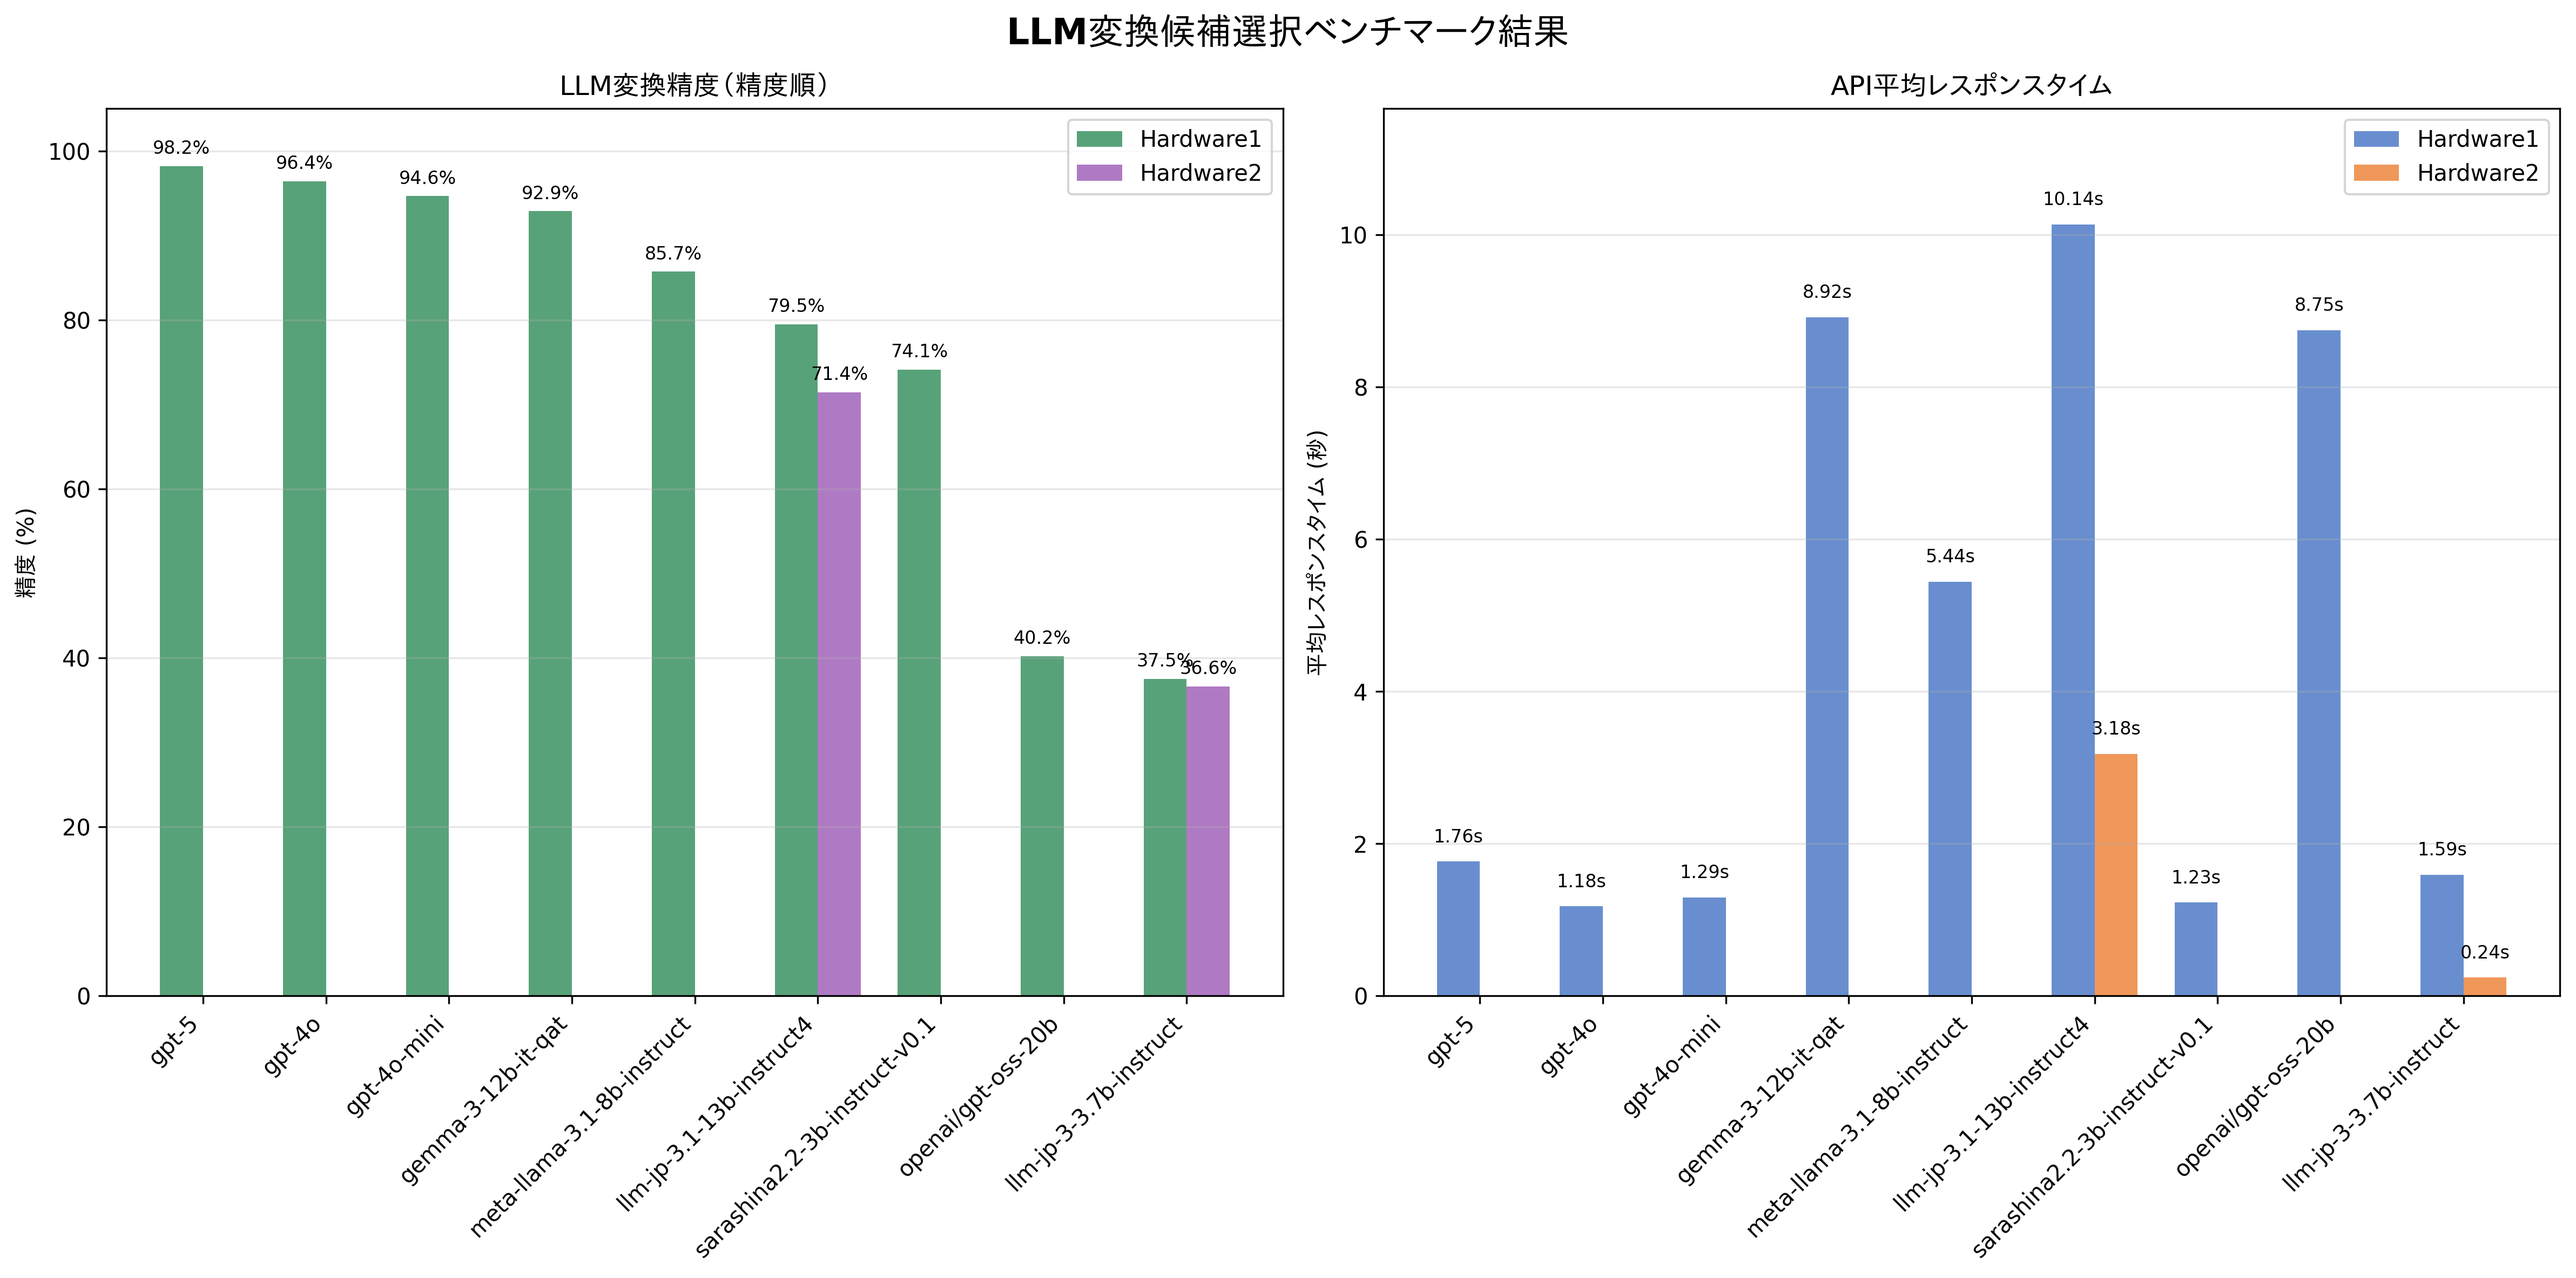
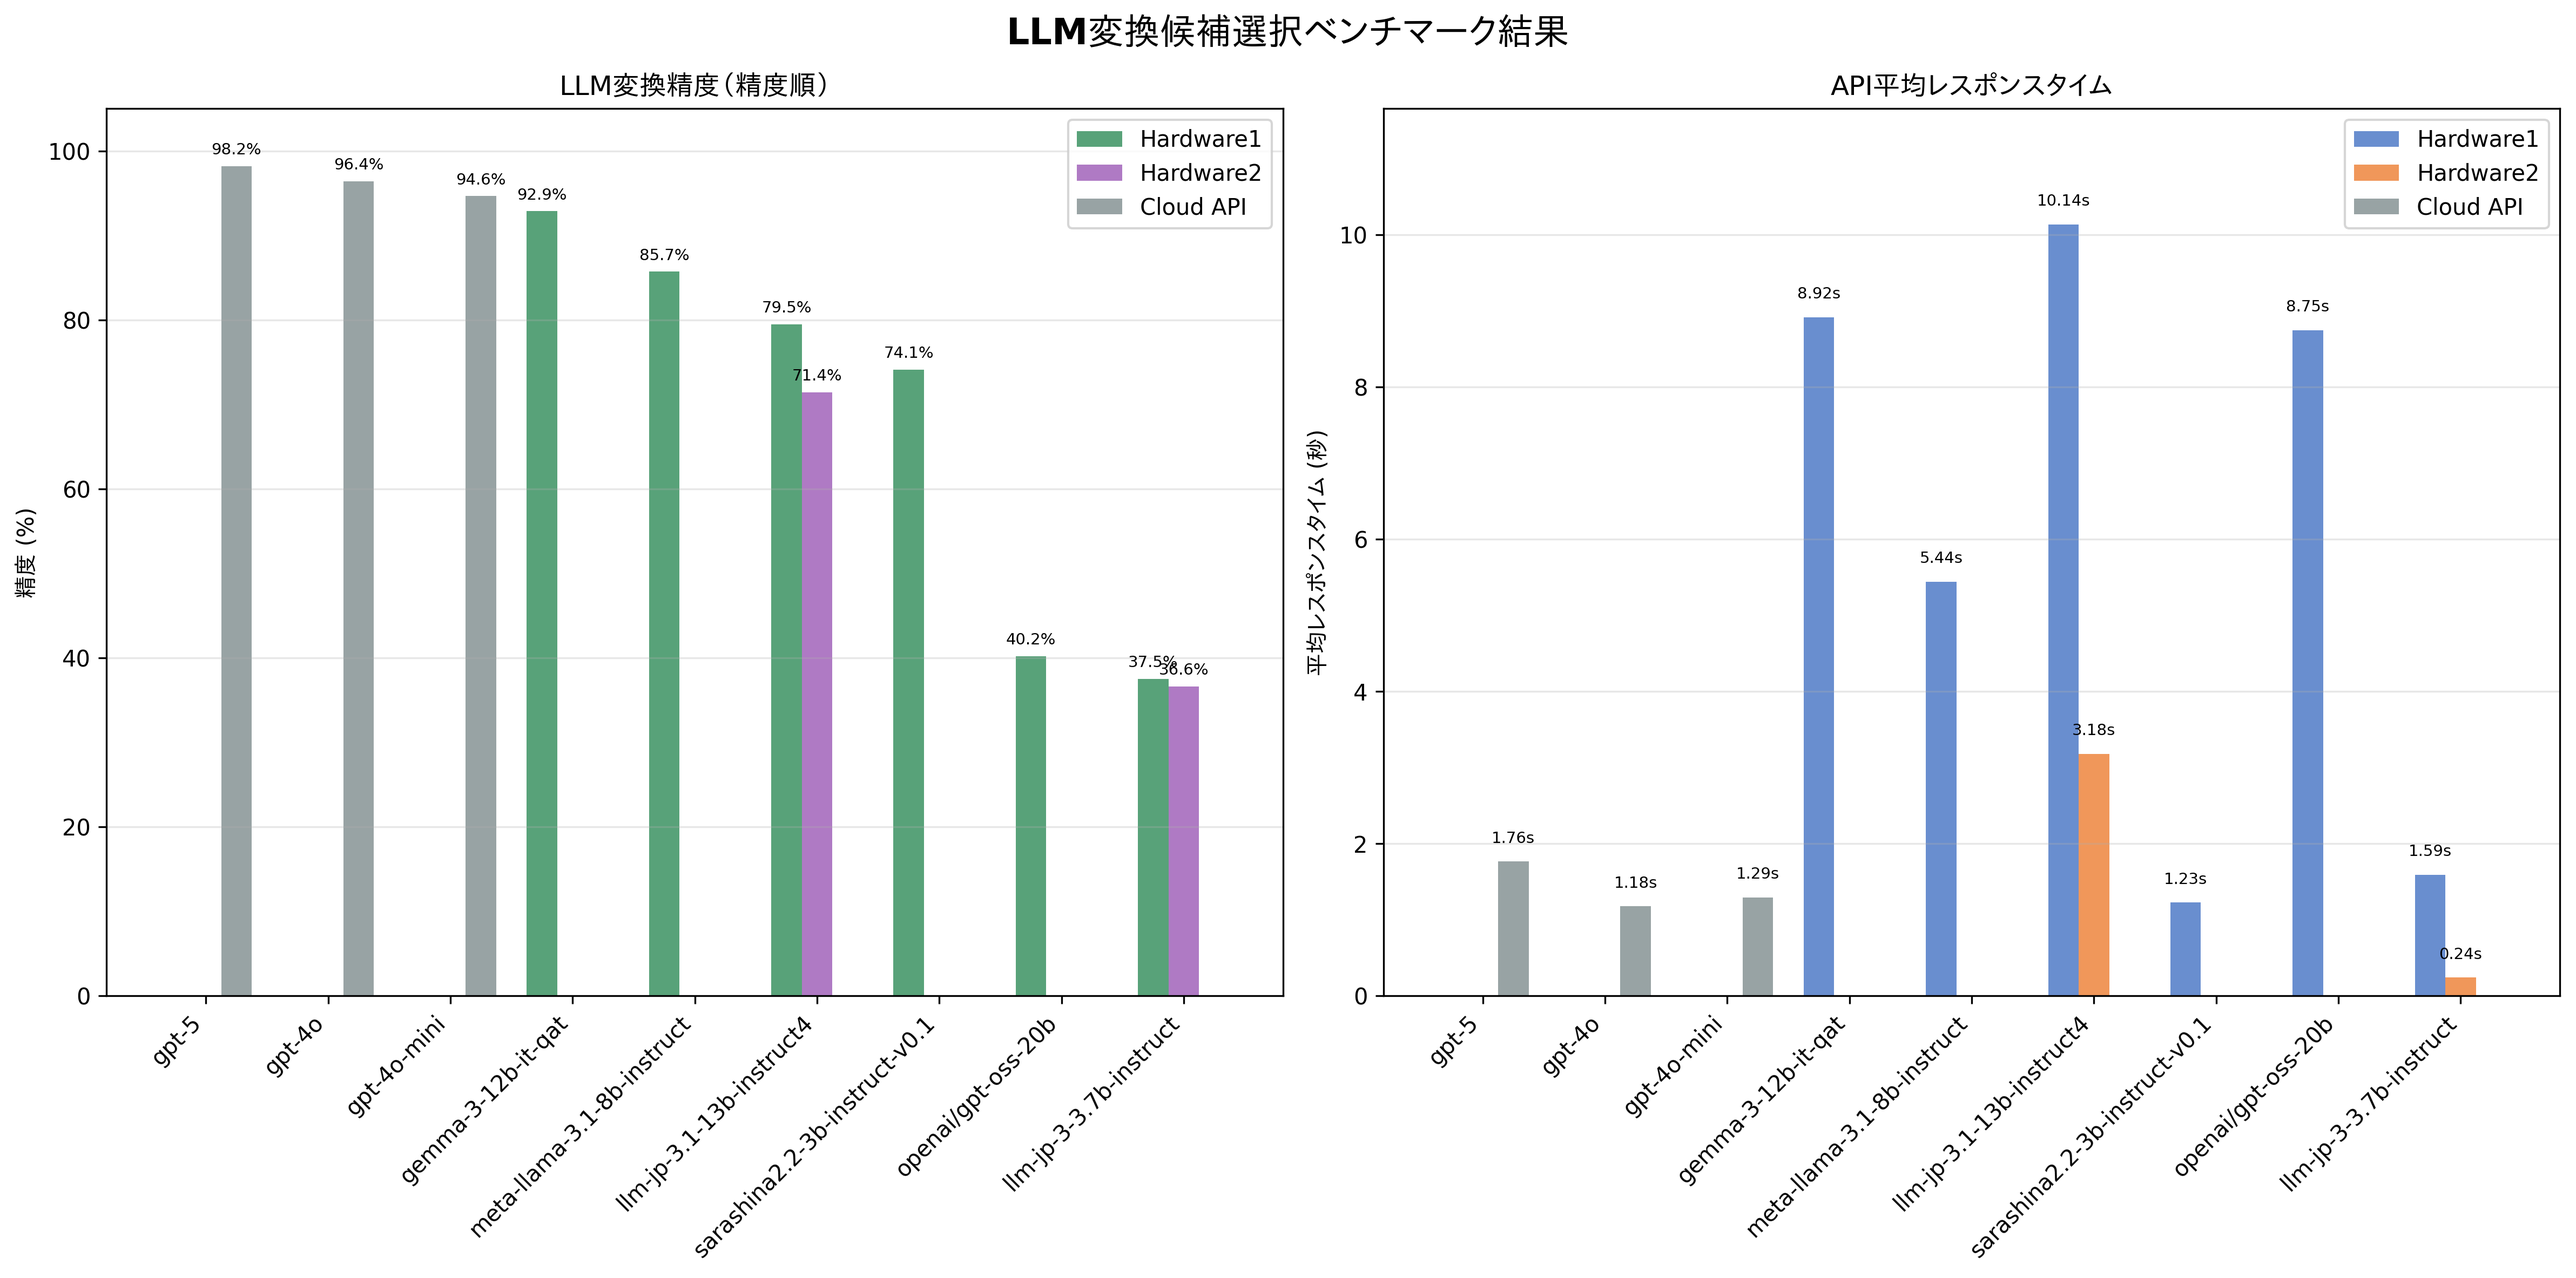
cloudAPIとhardware1とhardware2をグラフで別の色で表現した

diff --git a/benchmark_mozc_conversion_helper/scripts/plot_benchmark_results.py b/benchmark_mozc_conversion_helper/scripts/plot_benchmark_results.py
@@ -48,6 +48,9 @@ def load_benchmark_results(results_dir: str = "results") -> Dict[str, Dict]:
             if json_file.parent.name != results_path.name:
                 hardware_tag = json_file.parent.name
                 display_name = f"[{hardware_tag}] {display_name}"
+            else:
+                # results/ 直下のファイルはCloudタグを付ける
+                hardware_tag = "cloud"
 
             # サマリー情報を抽出
             if 'summary' in data:
@@ -85,20 +88,28 @@ def plot_benchmark_comparison(results: Dict[str, Dict], output_file: str = "benc
         print("No data to plot")
         return
 
-    # hardware1のデータを基準にソート（hardware1がない場合は全データでソート）
-    hw1_results = {k: v for k, v in results.items() if v.get('hardware_tag') == 'hardware1' or v.get('hardware_tag') is None}
-    if not hw1_results:
-        hw1_results = results
+    # すべてのモデルを精度順にソート（hardware1優先、なければcloud、なければhardware2）
+    all_models = {}
+    for key, value in results.items():
+        base_model = value['base_model']
+        if base_model not in all_models:
+            all_models[base_model] = value
+        else:
+            # hardware1を優先、次にcloud、最後にhardware2
+            current_tag = all_models[base_model].get('hardware_tag')
+            new_tag = value.get('hardware_tag')
+            if current_tag == 'hardware2' and new_tag in ['hardware1', 'cloud']:
+                all_models[base_model] = value
+            elif current_tag == 'cloud' and new_tag == 'hardware1':
+                all_models[base_model] = value
 
-    sorted_hw1 = sorted(hw1_results.items(), key=lambda x: x[1]['llm_accuracy'], reverse=True)
+    sorted_models = sorted(all_models.items(), key=lambda x: x[1]['llm_accuracy'], reverse=True)
+    model_order = [item[1]['base_model'] for item in sorted_models]
 
-    # hardware1のモデル順序を基準に全データを整理
-    model_order = [item[1]['base_model'] for item in sorted_hw1]
-
-    # 各モデルについて、hardware1とhardware2のデータを収集
+    # 各モデルについて、hardware1, hardware2, cloudのデータを収集
     model_data = {}
     for base_model in model_order:
-        model_data[base_model] = {'hw1': None, 'hw2': None}
+        model_data[base_model] = {'hw1': None, 'hw2': None, 'cloud': None}
         for key, value in results.items():
             if value['base_model'] == base_model:
                 hw_tag = value.get('hardware_tag')
@@ -106,41 +117,46 @@ def plot_benchmark_comparison(results: Dict[str, Dict], output_file: str = "benc
                     model_data[base_model]['hw1'] = value
                 elif hw_tag == 'hardware2':
                     model_data[base_model]['hw2'] = value
-                elif hw_tag is None:  # results/直下のファイル
-                    model_data[base_model]['hw1'] = value
+                elif hw_tag == 'cloud':
+                    model_data[base_model]['cloud'] = value
 
     # 表示用データの準備
     models = []
     hw1_accuracies = []
     hw2_accuracies = []
+    cloud_accuracies = []
     hw1_times = []
     hw2_times = []
+    cloud_times = []
 
     for base_model in model_order:
         data = model_data[base_model]
-        if data['hw1'] or data['hw2']:
+        if data['hw1'] or data['hw2'] or data['cloud']:
             # モデル名は[hardware1]タグなしで表示
             models.append(base_model.replace('--', '/'))
 
             # 精度
             hw1_accuracies.append(data['hw1']['llm_accuracy'] * 100 if data['hw1'] else None)
             hw2_accuracies.append(data['hw2']['llm_accuracy'] * 100 if data['hw2'] else None)
+            cloud_accuracies.append(data['cloud']['llm_accuracy'] * 100 if data['cloud'] else None)
 
             # レスポンスタイム
             hw1_times.append(data['hw1']['avg_response_time'] if data['hw1'] else None)
             hw2_times.append(data['hw2']['avg_response_time'] if data['hw2'] else None)
+            cloud_times.append(data['cloud']['avg_response_time'] if data['cloud'] else None)
 
     # 2つのサブプロットを作成
     fig, (ax1, ax2) = plt.subplots(1, 2, figsize=(16, 8))
     fig.suptitle('LLM変換候補選択ベンチマーク結果', fontsize=16, fontweight='bold')
 
-    # LLM精度グラフ（hardware1とhardware2を重ねて表示）
-    bar_width_acc = 0.35
+    # LLM精度グラフ（hardware1, hardware2, cloudを重ねて表示）
+    bar_width_acc = 0.25
     x_pos_acc = range(len(models))
 
     # 各バーの位置を計算
-    hw1_acc_positions = [i - bar_width_acc/2 for i in x_pos_acc]
-    hw2_acc_positions = [i + bar_width_acc/2 for i in x_pos_acc]
+    hw1_acc_positions = [i - bar_width_acc for i in x_pos_acc]
+    hw2_acc_positions = [i for i in x_pos_acc]
+    cloud_acc_positions = [i + bar_width_acc for i in x_pos_acc]
 
     # hardware1のバー（緑色）
     hw1_display_acc = [a if a is not None else 0 for a in hw1_accuracies]
@@ -152,6 +168,11 @@ def plot_benchmark_comparison(results: Dict[str, Dict], output_file: str = "benc
     bars_hw2_acc = ax1.bar(hw2_acc_positions, hw2_display_acc, bar_width_acc,
                            label='Hardware2', color='#9B59B6', alpha=0.8)
 
+    # cloudのバー（灰色）
+    cloud_display_acc = [a if a is not None else 0 for a in cloud_accuracies]
+    bars_cloud_acc = ax1.bar(cloud_acc_positions, cloud_display_acc, bar_width_acc,
+                             label='Cloud API', color='#7F8C8D', alpha=0.8)
+
     ax1.set_ylabel('精度 (%)')
     ax1.set_title('LLM変換精度（精度順）')
     ax1.set_xticks(x_pos_acc)
@@ -161,33 +182,40 @@ def plot_benchmark_comparison(results: Dict[str, Dict], output_file: str = "benc
     ax1.set_ylim(0, 105)
 
     # 精度値をバーの上に表示
-    for i, (hw1_acc, hw2_acc) in enumerate(zip(hw1_accuracies, hw2_accuracies)):
+    for i, (hw1_acc, hw2_acc, cloud_acc) in enumerate(zip(hw1_accuracies, hw2_accuracies, cloud_accuracies)):
         if hw1_acc is not None:
             ax1.text(hw1_acc_positions[i], hw1_acc + 1, f'{hw1_acc:.1f}%',
-                    ha='center', va='bottom', fontsize=8)
+                    ha='center', va='bottom', fontsize=7)
         if hw2_acc is not None:
             ax1.text(hw2_acc_positions[i], hw2_acc + 1, f'{hw2_acc:.1f}%',
-                    ha='center', va='bottom', fontsize=8)
+                    ha='center', va='bottom', fontsize=7)
+        if cloud_acc is not None:
+            ax1.text(cloud_acc_positions[i], cloud_acc + 1, f'{cloud_acc:.1f}%',
+                    ha='center', va='bottom', fontsize=7)
 
-    # 平均レスポンスタイムグラフ（hardware1とhardware2を重ねて表示）
-    bar_width = 0.35
+    # 平均レスポンスタイムグラフ（hardware1, hardware2, cloudを重ねて表示）
+    bar_width = 0.25
     x_pos = range(len(models))
 
     # 各バーの位置を計算
-    hw1_positions = [i - bar_width/2 for i in x_pos]
-    hw2_positions = [i + bar_width/2 for i in x_pos]
+    hw1_positions = [i - bar_width for i in x_pos]
+    hw2_positions = [i for i in x_pos]
+    cloud_positions = [i + bar_width for i in x_pos]
 
     # hardware1のバー（青色）
     hw1_display_times = [t if t is not None else 0 for t in hw1_times]
-    hw1_colors = ['#4472C4' if t is not None else '#CCCCCC' for t in hw1_times]
     bars_hw1 = ax2.bar(hw1_positions, hw1_display_times, bar_width,
                        label='Hardware1', color='#4472C4', alpha=0.8)
 
     # hardware2のバー（オレンジ色）
     hw2_display_times = [t if t is not None else 0 for t in hw2_times]
-    hw2_colors = ['#ED7D31' if t is not None else '#CCCCCC' for t in hw2_times]
     bars_hw2 = ax2.bar(hw2_positions, hw2_display_times, bar_width,
                        label='Hardware2', color='#ED7D31', alpha=0.8)
+
+    # cloudのバー（灰色）
+    cloud_display_times = [t if t is not None else 0 for t in cloud_times]
+    bars_cloud = ax2.bar(cloud_positions, cloud_display_times, bar_width,
+                         label='Cloud API', color='#7F8C8D', alpha=0.8)
 
     ax2.set_ylabel('平均レスポンスタイム (秒)')
     ax2.set_title('API平均レスポンスタイム')
@@ -197,19 +225,22 @@ def plot_benchmark_comparison(results: Dict[str, Dict], output_file: str = "benc
     ax2.grid(axis='y', alpha=0.3)
 
     # Y軸の最大値を設定
-    all_valid_times = [t for t in hw1_times + hw2_times if t is not None]
+    all_valid_times = [t for t in hw1_times + hw2_times + cloud_times if t is not None]
     if all_valid_times:
         max_time = max(all_valid_times)
         ax2.set_ylim(0, max_time * 1.15)
 
         # レスポンスタイム値をバーの上に表示
-        for i, (hw1_t, hw2_t) in enumerate(zip(hw1_times, hw2_times)):
+        for i, (hw1_t, hw2_t, cloud_t) in enumerate(zip(hw1_times, hw2_times, cloud_times)):
             if hw1_t is not None:
                 ax2.text(hw1_positions[i], hw1_t + max_time * 0.02, f'{hw1_t:.2f}s',
-                        ha='center', va='bottom', fontsize=8)
+                        ha='center', va='bottom', fontsize=7)
             if hw2_t is not None:
                 ax2.text(hw2_positions[i], hw2_t + max_time * 0.02, f'{hw2_t:.2f}s',
-                        ha='center', va='bottom', fontsize=8)
+                        ha='center', va='bottom', fontsize=7)
+            if cloud_t is not None:
+                ax2.text(cloud_positions[i], cloud_t + max_time * 0.02, f'{cloud_t:.2f}s',
+                        ha='center', va='bottom', fontsize=7)
 
     # レイアウト調整
     plt.tight_layout()
